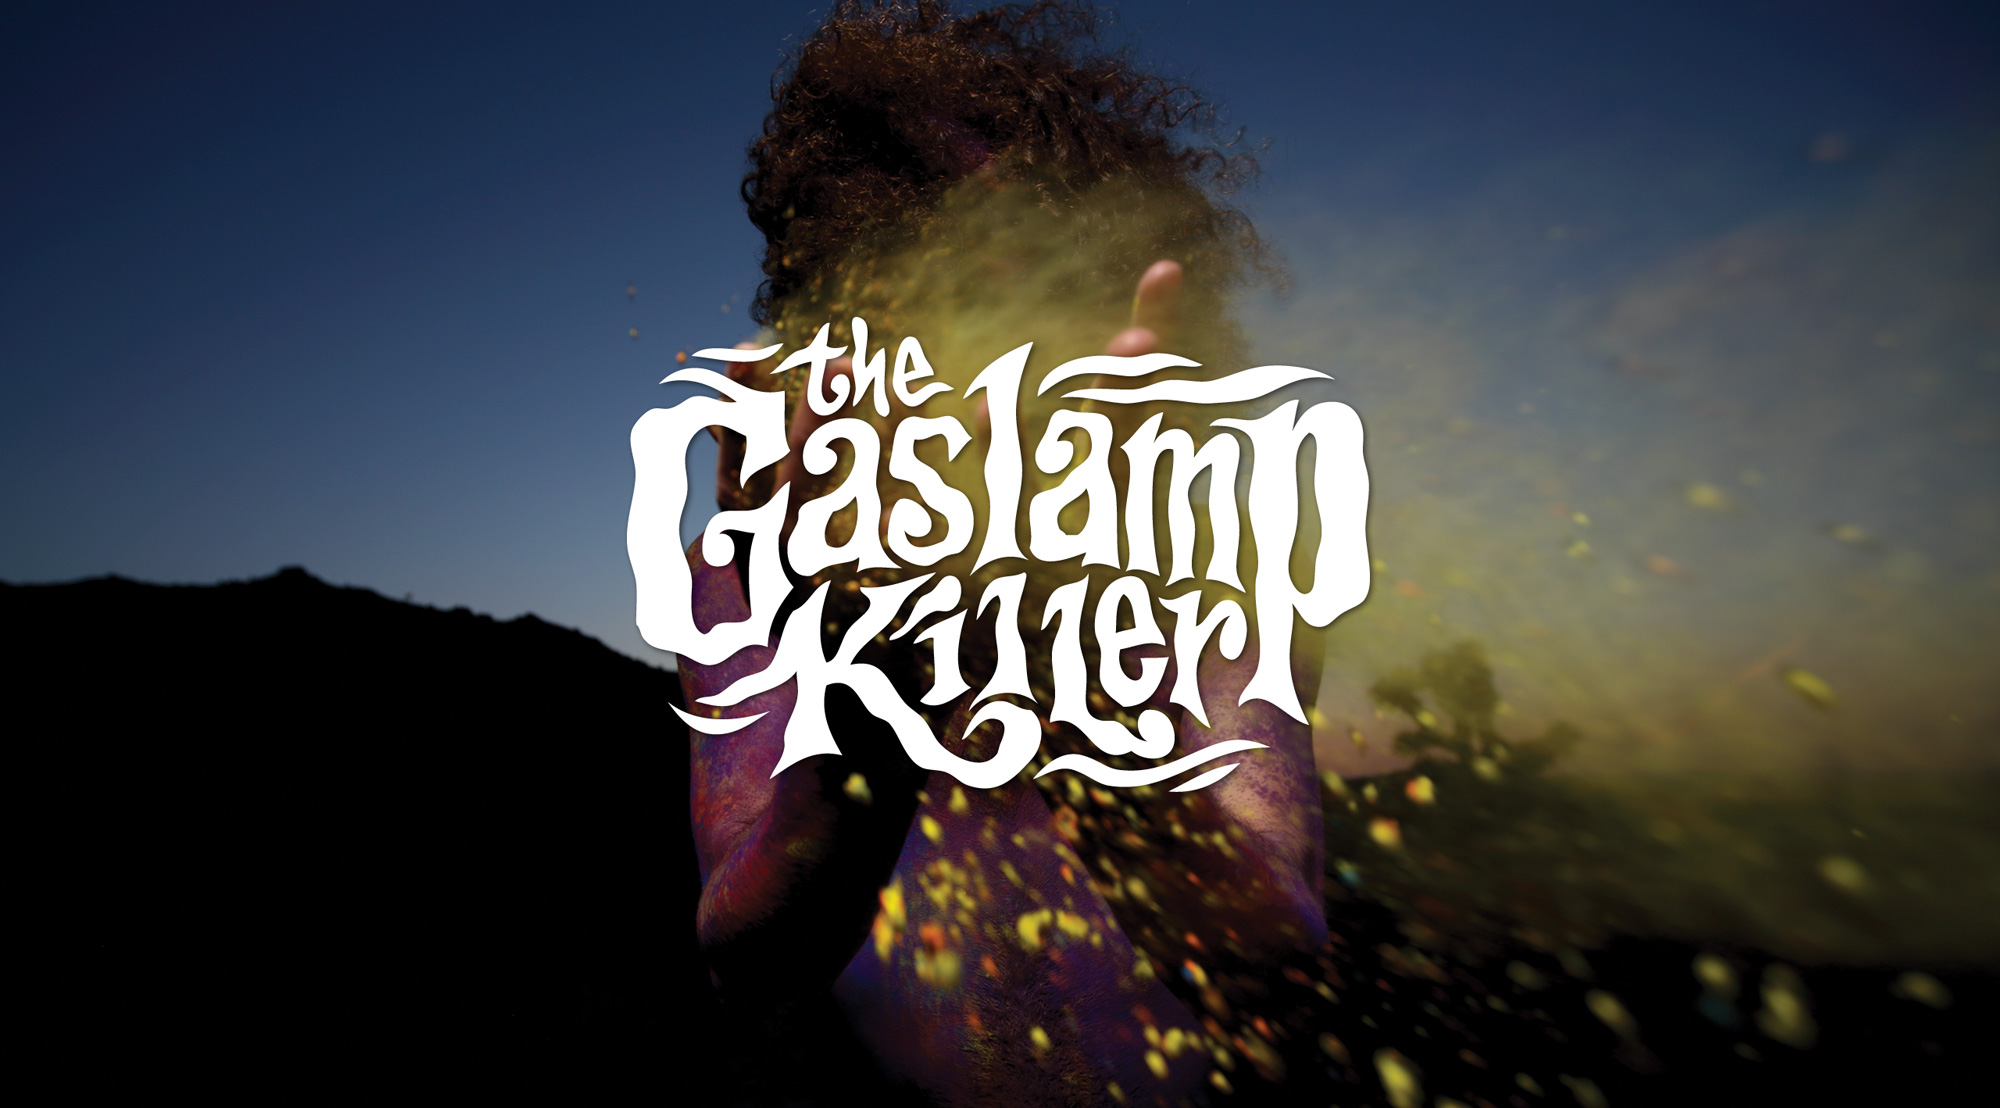
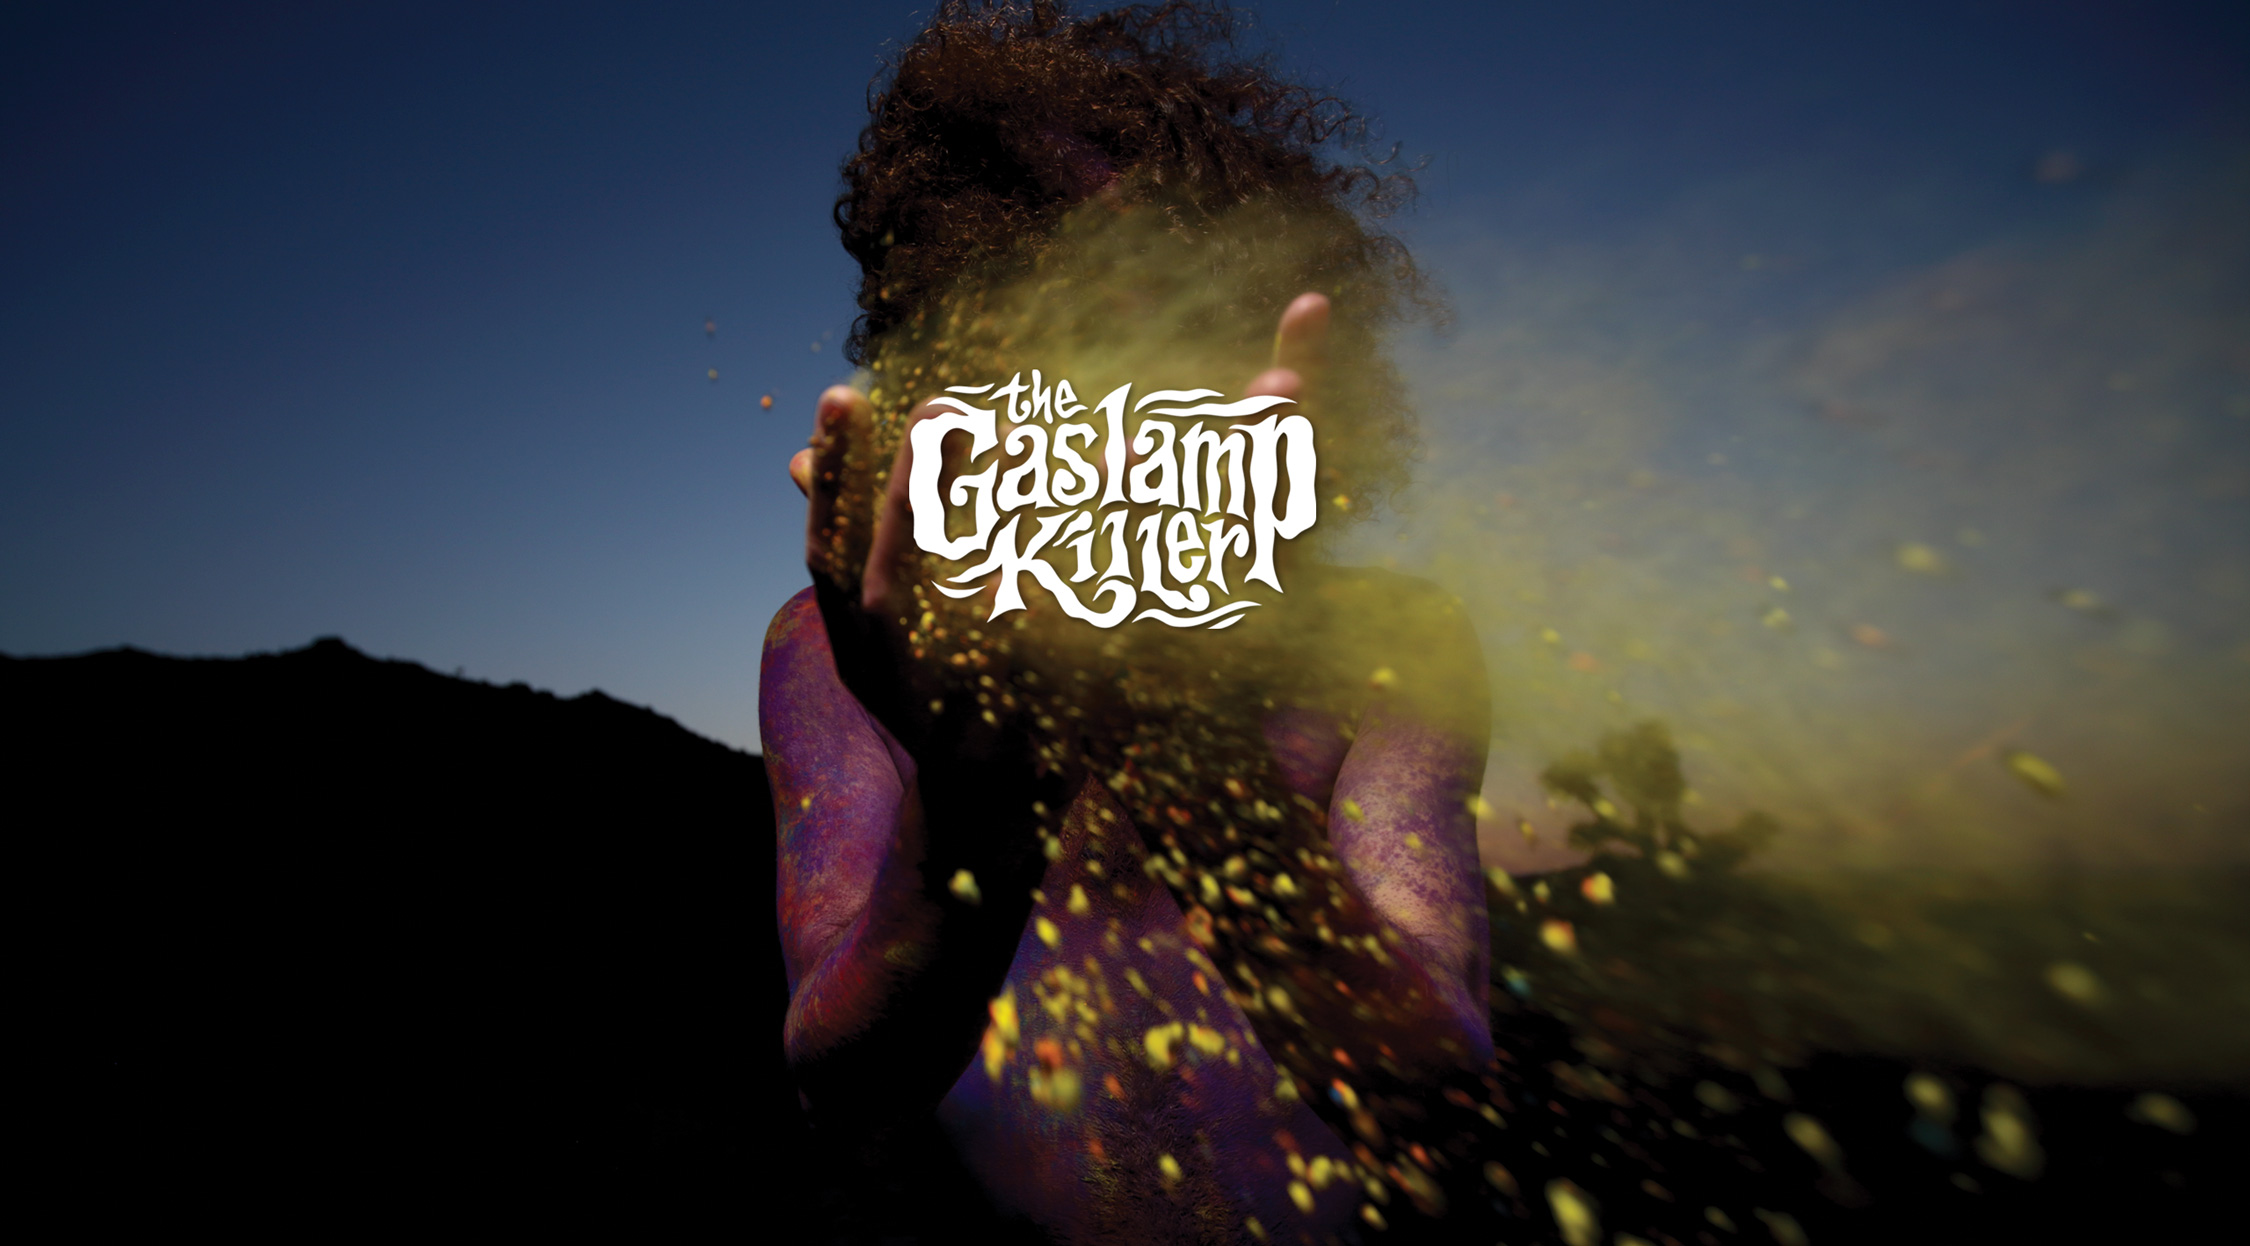
Vertical alignment works in all media queries

Changed region(s): [[0.31, 0.2762, 0.713, 0.7365]]

diff --git a/app/styles/main.scss b/app/styles/main.scss
@@ -12,17 +12,12 @@ $icon-font-path: '../fonts/';
 }
 
 
-
-
-
-.intro {
-    display: table;
+html {
     width: 100%;
-    height: auto;
-    padding: 100px 0;
-    text-align: center;
-    color: #fff;
-    
+    height:100%;
+}
+
+body{
     background: url(../images/intro-bg.jpg) no-repeat bottom center scroll;
     background-color: #000;
     -webkit-background-size: cover;
@@ -31,152 +26,145 @@ $icon-font-path: '../fonts/';
     -o-background-size: cover;
 }
 
-.intro .intro-body {
-    display: table-cell;
-    vertical-align: middle;
-}
-
-.intro .intro-body .brand-heading {
-    font-size: 40px;
-}
-
-.intro .intro-body .intro-text {
-    font-size: 18px;
-}
-
-/* Custom, iPhone Retina */ 
-    @media only screen and (min-width : 320px) {
-    .intro{
-    margin-top:0px;
-    width:100;
-    height:75%;
-    }
-    
-.brandList{
-    margin-top:360px;
-}
-
-    }
-
-    /* Extra Small Devices, Phones */ 
-    @media only screen and (min-width : 480px) {
-    .intro
-        {
-        margin-top:0;
-        }
-        .brandList{
-        margin-top: 80%;
-        }
-    }
-
-    
-
-@media(min-width:767px) {
-     .brandList{ 
-  margin-left: -80%;
-  margin-top: 75%
-}
-.navList{
-    margin-left:-85%;
-    margin-top:-18%
-
-}
-
-.socialList{
-      margin-right:-555px;
-    }
-
-    .intro {
-        height: 100%;
-        padding: 0;
 
 
-    }
-
-    .intro .intro-body .brand-heading {
-        font-size: 100px;
-    }
-
-    .intro .intro-body .intro-text {
-        font-size: 25px;
-    }
-
-     
-  
-}
-
-/* Medium Devices, Desktops */
-    @media only screen and (min-width : 992px) {
-    .brandList{
-      margin-left: -78%;
-     margin-top: 45%;
-    }
-
-    .socialList{
-      margin-right:-675px;
-      margin-top:100px;
-    }
-    }
-/* Large Devices, Wide Screens */
-    @media only screen and (min-width : 1200px) {
-    .brandList {
-  margin-left: -85%;
-  margin-top: 40%;
-}
-.socialList{
-      margin-right:-875px;
-      margin-top:100px;
-    }
-
-    }
-
-
-body {
-    width: 100%;
-    height: 100%;
-    font-family: Lora,"Helvetica Neue",Helvetica,Arial,sans-serif;
-    color: #fff;
-    background-color: #000;
-}
-
-html {
-    width: 100%;
-    height: 100%;
-}
-.brandList {
-list-style: none;
-}
-
-.brandList li{
-display: inline;
-list-style-type: none;
-padding-right: 20px;
-}
-
-.navList{
-    list-style:none;
-    text-transform:uppercase;
-
-}
-
-.socialList{
-    list-style:none;
-    text-transform:uppercase;
-
-}
-
-.socialList li{
-display: inline;
-list-style-type: none;
-padding-right: 0;
-}
 a{
     color:#fff
 }
+
 a:hover{
     color:red;
     text-style:none;
 }
+
 a:link{
     text-decoration:none;
 }
+/* Custom, iPhone Retina */ 
+    @media only screen and (min-width : 320px) {
+
+   
+
+
+.intro {
+margin-left: -10%;
+}
+
+.intro .intro-body {
+margin-top:25%;
+}
+    
+
+.navList{
+    list-style:none;
+    text-transform:uppercase;
+    position: absolute;
+    width: 100%;
+    left: 0;
+    top: -25px;
+    text-align: center;
+    margin:0 auto;
+
+}
+
+.socialList {
+list-style: none;
+text-transform: uppercase;
+position: absolute;
+width: 100%;
+left: 0;
+top: 320px;
+text-align: center;
+margin: auto;
+}
+
+.socialList li{
+    display: inline;
+    list-style-type: none;
+    padding-right: 0;
+}
+
+.socialList img {
+max-width:25%
+}
+}
+    
+
+/* Custom, iPhone Retina */ 
+    @media only screen and (min-width : 480px) and (orientation:landscape) {
+    .navList{
+    list-style:none;
+    text-transform:uppercase;
+    position: absolute;
+    width: 100%;
+    left: 0;
+    top: -110px;
+    text-align: center;
+    margin:0 auto;
+
+}
+
+
+   }
+
+    /* Small Devices, Tablets */
+    @media only screen and (min-width : 768px) {
+    .navList{
+    list-style:none;
+    text-transform:uppercase;
+    position: absolute;
+    width: 100%;
+    left: 0;
+    top: -120px;
+    text-align: center;
+    margin:0 auto;
+    }
+    .intro{
+    margin-left:-3.5%;
+    }}
+
+    /* Medium Devices, Desktops */
+    @media only screen and (min-width : 992px) {
+    .navList{
+    list-style:none;
+    text-transform:uppercase;
+    position: absolute;
+    width: 100%;
+    left: 0;
+    top: -170px;
+    text-align: center;
+    margin:0 auto;
+    }}
+
+     /* Large Devices, Wide Screens */
+    @media only screen and (min-width : 1200px) {
+    .navList{
+    list-style:none;
+    text-transform:uppercase;
+    position: absolute;
+    width: 100%;
+    left: 0;
+    top: -250px;
+    text-align: center;
+    margin:0 auto;
+
+
+}}
+
+ /* Large Devices, Wide Screens */
+    @media only screen and (min-width : 1500px) {
+    .navList{
+    list-style:none;
+    text-transform:uppercase;
+    position: absolute;
+    width: 100%;
+    left: 0;
+    top: -350px;
+    text-align: center;
+    margin:0 auto;
+
+
+}
+    }
+    
+    

diff --git a/app/index.html b/app/index.html
@@ -27,20 +27,9 @@
       <p class="browserupgrade">You are using an <strong>outdated</strong> browser. Please <a href="http://browsehappy.com/">upgrade your browser</a> to improve your experience.</p>
     <![endif]-->
 
-        <div class="intro">
+       <div class="intro">
         <div class="intro-body">
-            <div class="container">
-                <div class="row">
-                    <div class="col-md-12">
-                    <ul class="socialList">
-                        <li><a href="https://www.facebook.com/gaslampkiller"><img src="images/glk-fb-icon.png"></a></li>
-                        <li><a href="https://instagram.com/gaslampkiller/"><img src="images/glk-ig-icon.png"></a></li>
-                        <li><a href="http://gaslampkiller.tumblr.com/"><img src="images/glk-tumblr-icon.png"></a></li>
-                        <li><a href="https://twitter.com/gaslampkiller"><img src="images/glk-twitter-icon.png"></a></li>
-                    </ul>
-                </div>
-
-                    <div class="col-md-12">
+                    <div class="col-xs-12">
                         <ul class="navList">
                             <li><a href="#">Home</a></li>
                             <li><a href="http://music.thegaslampkiller.com">Music</a></li>
@@ -48,22 +37,22 @@
                             <li><a href="https://thegaslampkiller.bandcamp.com/subscribe">Subscribe</a></li>
 
                         </ul>
-</div>
-                    <div class="col-md-12">
-              <ul class="brandList">
-                <li>
-                        <li><a href="http://music.thegaslampkiller.com"><img src="images/glk-icon.png"></a></li>
-                        <li><a href="http://cargocollective.com/ilias"><img src="images/ilac.png"></a></li>
-                        <li><a href="http://www.lowendtheoryclub.com/"><img src="images/low-end.png"></a></li>
-                    </ul>
-                            
-                        </a>
-                  
                     </div>
-                </div>
-            </div>
+                    
+                    <div class="col-xs-12">
+                    <ul class="socialList">
+                        <li><a href="https://www.facebook.com/gaslampkiller"><img src="images/glk-fb-icon.png"></a></li>
+                        <li><a href="https://instagram.com/gaslampkiller/"><img src="images/glk-ig-icon.png"></a></li>
+                        <li><a href="http://gaslampkiller.tumblr.com/"><img src="images/glk-tumblr-icon.png"></a></li>
+                        <li><a href="https://twitter.com/gaslampkiller"><img src="images/glk-twitter-icon.png"></a></li>
+                    </ul>
+                    </div>
+                            
+                
+                  
+         </div>
         </div>
-    </div>
+         
 
     <!-- Google Analytics: change UA-XXXXX-X to be your site's ID. -->
     <script>
